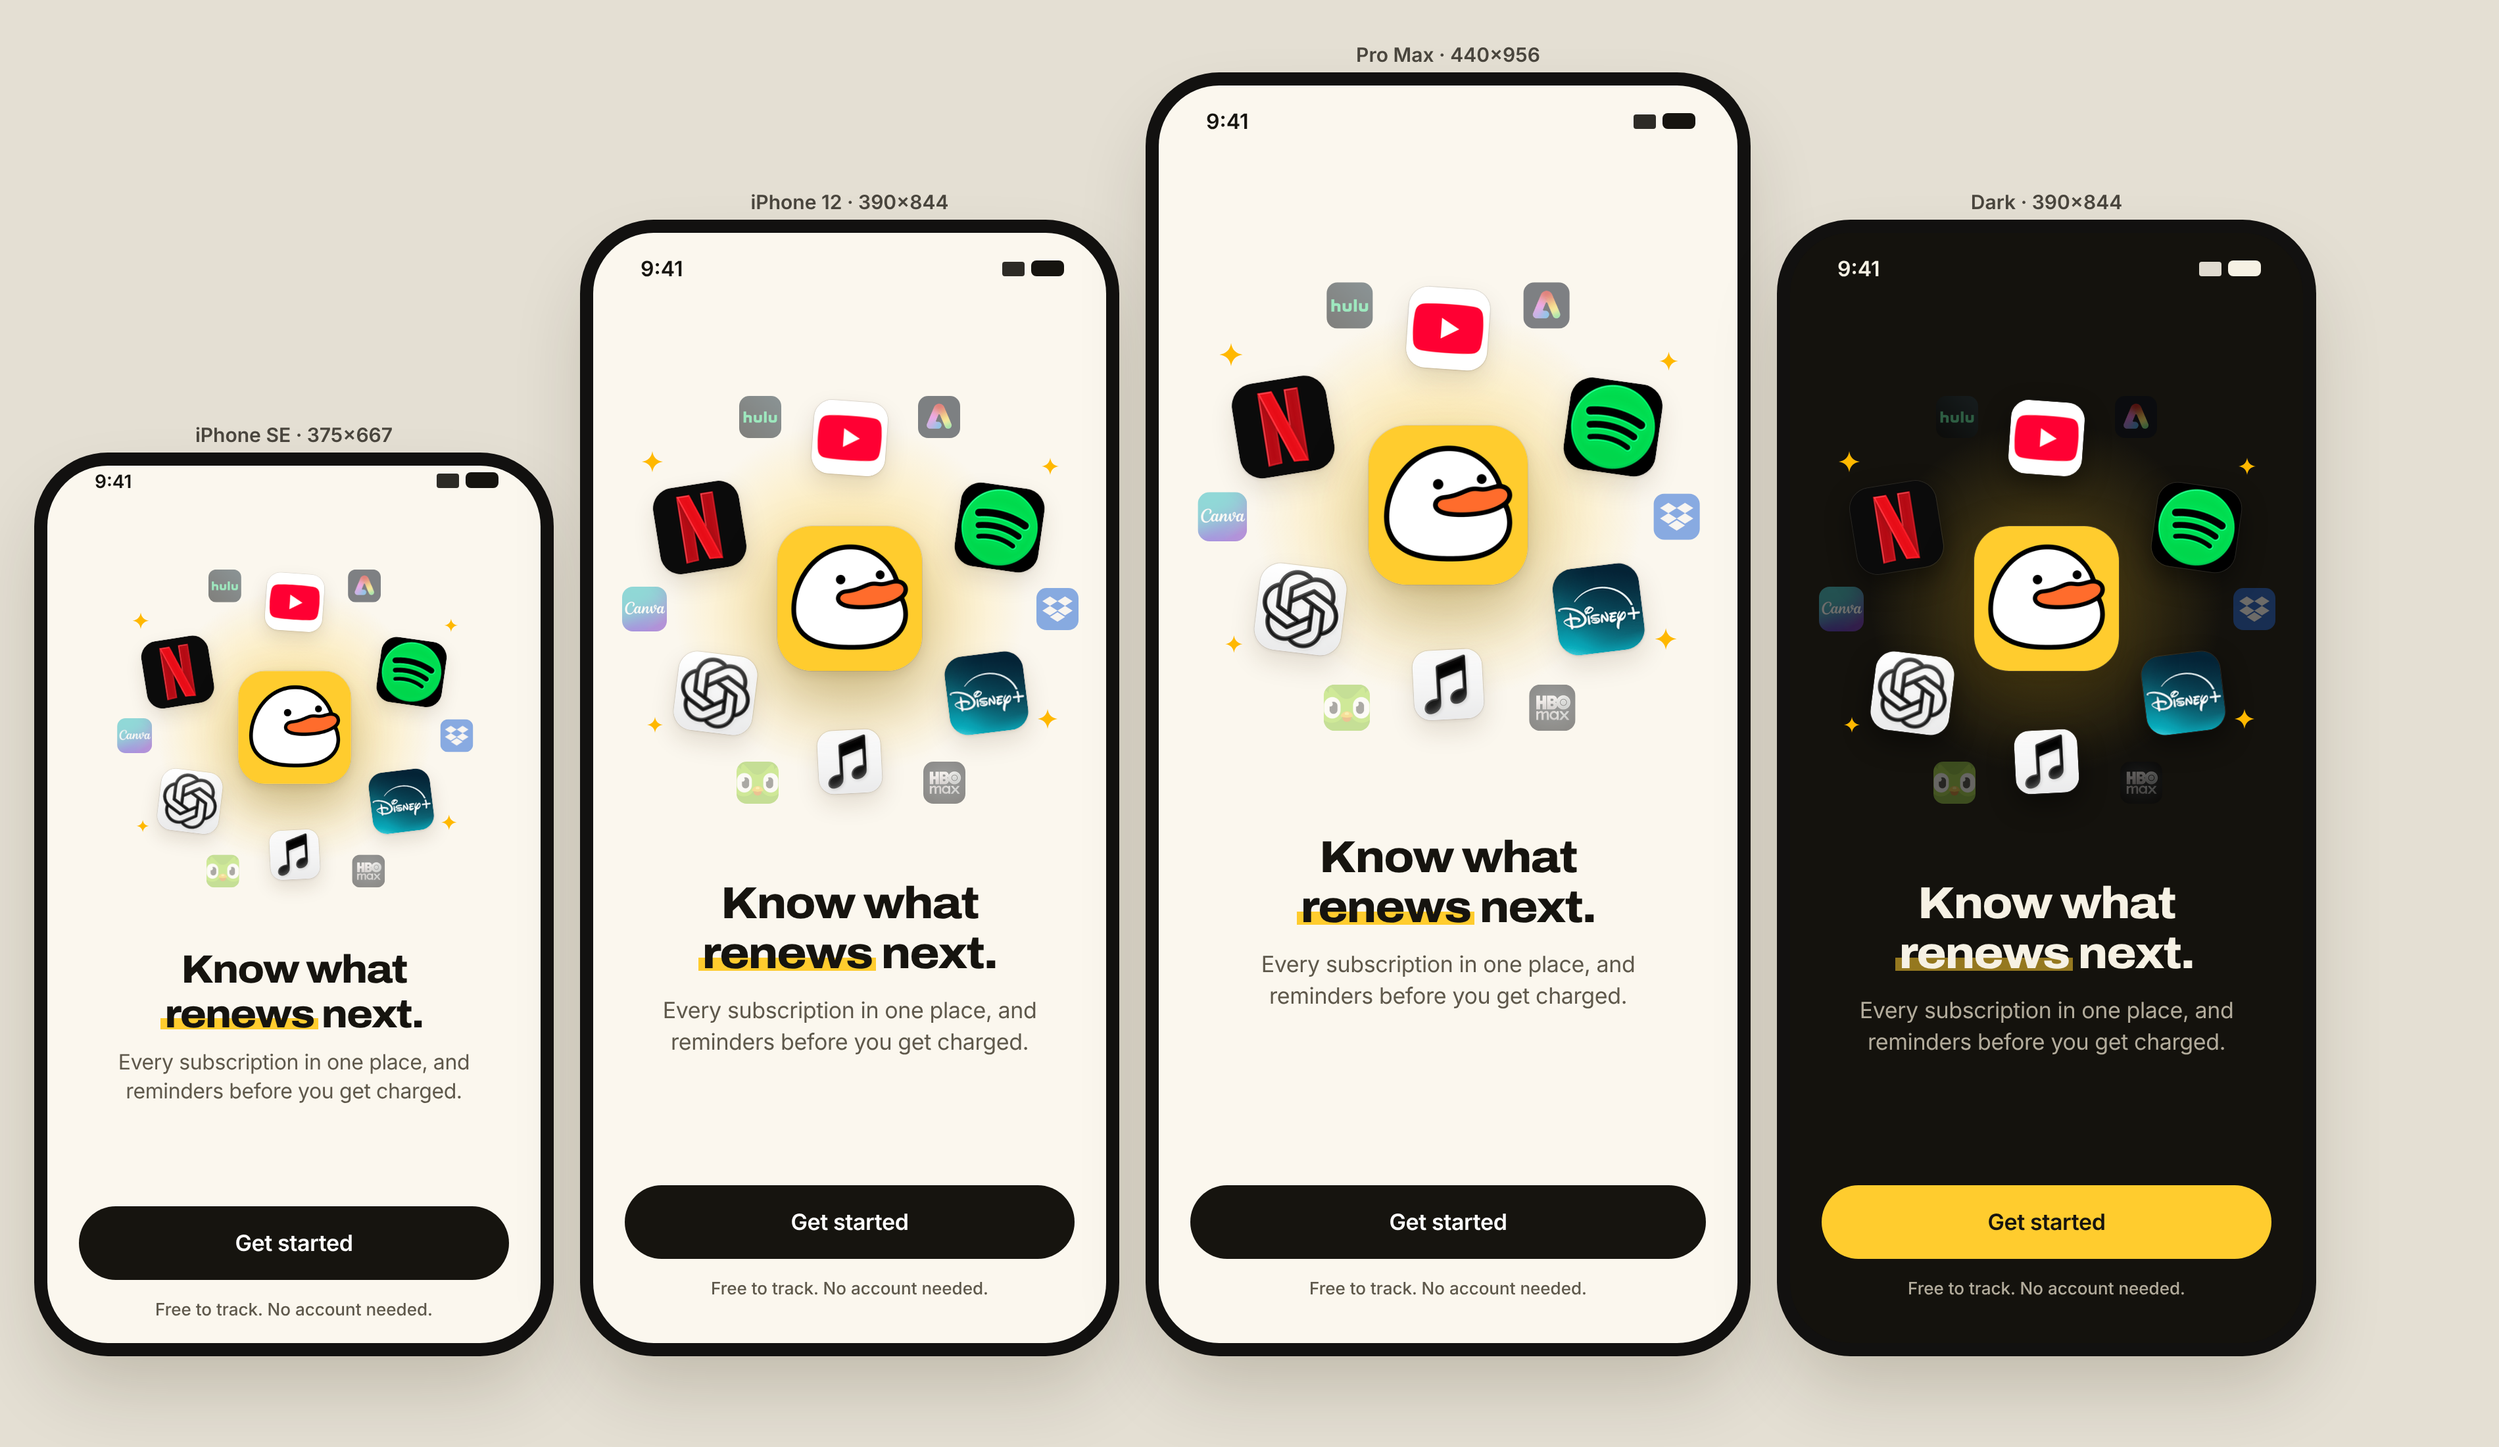
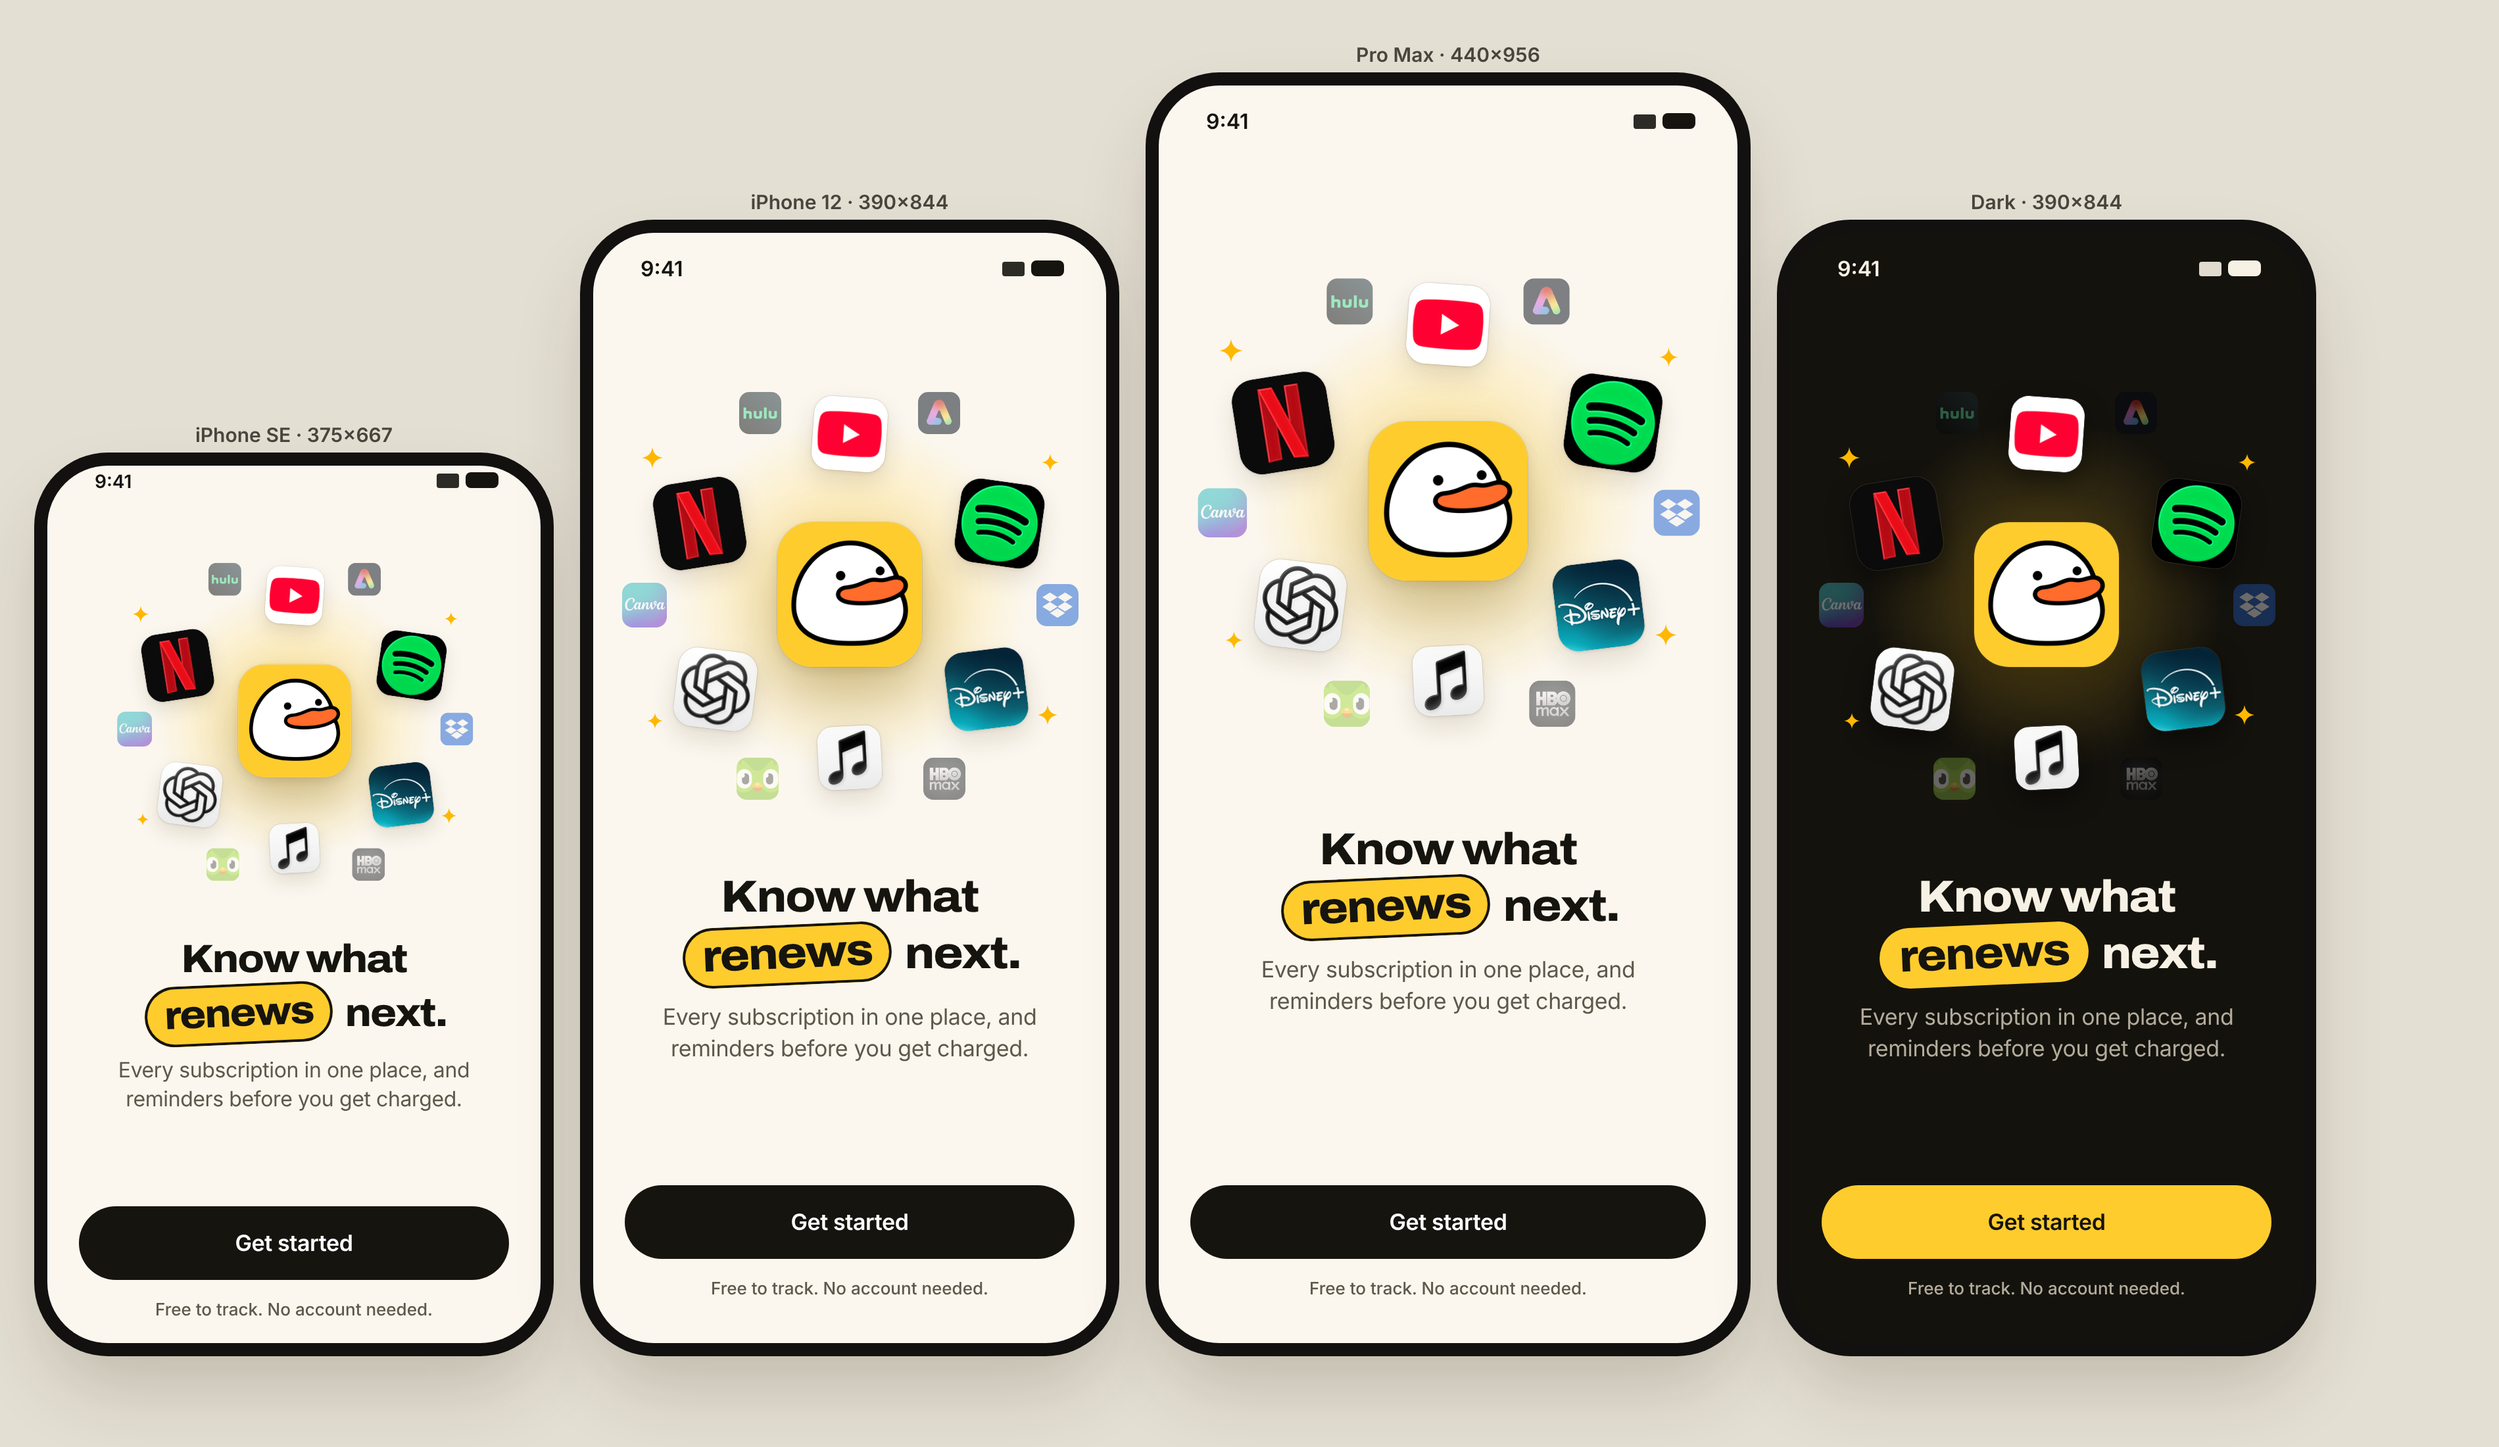
Design v27: tilted sunflower pill on 'renews' (2+3 combined)
Claude-Session: https://claude.ai/code/session_01Q8GFjWCZXwnj2nAcxjTkxh

diff --git a/design/v28/mix.html b/design/v28/mix.html
@@ -1,0 +1,89 @@
+<!doctype html>
+<html><head><meta charset="utf-8"><title>Highlight options v28</title>
+<style>
+@font-face{font-family:Archivo;src:url(../v12/fonts/archivo-wdth.woff2) format('woff2');font-weight:100 900;font-stretch:62% 125%}
+@font-face{font-family:Inter;src:url(../v12/fonts/Inter_400Regular.ttf);font-weight:400}
+@font-face{font-family:Inter;src:url(../v12/fonts/Inter_500Medium.ttf);font-weight:500}
+@font-face{font-family:Inter;src:url(../v12/fonts/Inter_600SemiBold.ttf);font-weight:600}
+*{box-sizing:border-box;margin:0}
+body{background:#E4DFD3;font-family:Inter,sans-serif;-webkit-font-smoothing:antialiased;padding:32px 36px}
+.row{display:flex;gap:40px;align-items:flex-end}
+.cell{display:flex;flex-direction:column;align-items:center;gap:14px}
+.cap{font:700 15px Inter;color:#4A463E;text-align:center}
+.phone{--bg:#FBF7EE;--ink:#16140F;--fg2:#5E584B;--glow:#FFE18A;--btn:#16140F;--btnfg:#fff;--hl:#FFCC2E;--ring:rgba(22,20,15,.10);
+  border-radius:46px;overflow:hidden;box-shadow:0 0 0 10px #121110,0 30px 60px rgba(40,30,0,.2);background:var(--bg);color:var(--ink);display:flex;flex-direction:column;position:relative}
+.phone.dark{--bg:#14120D;--ink:#F6F1E4;--fg2:#B3AC9C;--glow:rgba(255,204,46,.30);--btn:#FFCC2E;--btnfg:#16140F;--hl:rgba(255,204,46,.55);--ring:rgba(255,255,255,.10)}
+.sb{flex:none;display:flex;justify-content:space-between;align-items:center;padding:4px 32px 0 36px;font:600 16px Inter;position:relative;z-index:5}
+.sb i{display:flex;gap:5px;align-items:center}.sb i b{display:block;background:var(--ink);border-radius:2px}
+.stage{position:relative;width:342px;height:320px;flex:none;align-self:center;transform-origin:center}
+.t{position:absolute;border-radius:24%;overflow:hidden;box-shadow:0 0 0 .5px var(--ring),0 8px 18px rgba(58,42,0,.13),0 1px 3px rgba(58,42,0,.08)}
+.dark .t{box-shadow:0 0 0 .5px var(--ring),0 8px 20px rgba(0,0,0,.45)}
+.t img{display:block;width:100%;height:100%}
+.t.far{box-shadow:none;filter:saturate(.75)}
+.dark .t.far{filter:saturate(.6) brightness(.8)}
+.copy{text-align:center;padding:0 28px;flex:none}
+.h1{font:800 34px/38px Archivo;font-stretch:108%;letter-spacing:-1px}
+.hl{background:linear-gradient(transparent 60%,var(--hl) 56%,var(--hl) 86%,transparent 86%);padding:0 3px;margin:0 -3px}
+.sub{font:400 17px/24px Inter;color:var(--fg2);margin-top:12px;letter-spacing:-.2px}
+.cta{margin:0 24px;height:56px;border-radius:28px;background:var(--btn);color:var(--btnfg);display:flex;align-items:center;justify-content:center;font:600 17px Inter;letter-spacing:-.2px;flex:none}
+.fine{text-align:center;font:500 13px Inter;color:var(--fg2);flex:none}
+.grow{flex:1}
+.mix{display:inline-block;background:#FFCC2E;color:#16140F;border-radius:999px;padding:0 15px 2px;margin:2px 3px 0;line-height:44px;transform:rotate(-2.5deg)}
+.mix.b{box-shadow:inset 0 0 0 2px #16140F}
+.mix.c{box-shadow:inset 0 0 0 2px #16140F,2px 2px 0 #16140F}
+.dark .mix.b{box-shadow:none}
+.dark .mix.c{box-shadow:2px 2px 0 rgba(255,255,255,.85)}
+
+.pill{display:inline-block;background:var(--hl);border-radius:999px;padding:0 14px 2px;margin:0 2px;line-height:44px}
+.dark .pill{background:#FFCC2E;color:#16140F}
+.tag{display:inline-block;background:#FFCC2E;color:#16140F;border:2.5px solid #16140F;border-radius:10px;padding:0 10px 2px;transform:rotate(-3deg);line-height:42px;margin:4px 2px 0;box-shadow:3px 3px 0 #16140F}
+.dark .tag{border-color:#F6F1E4;box-shadow:3px 3px 0 #F6F1E4}
+.orange{color:#E4570F}
+.dark .orange{color:#FF8A3D}
+.circ{position:relative;display:inline-block}
+.circ svg{position:absolute;left:-14px;top:-8px;width:calc(100% + 28px);height:calc(100% + 16px);overflow:visible}
+.mute{color:#A39C8A}
+.dark .mute{color:#6F695C}
+.under{position:relative;display:inline-block}
+.under svg{position:absolute;left:-2px;bottom:-9px;width:calc(100% + 4px);height:14px}
+
+</style></head><body>
+<div class="row" id="row"></div>
+<script>
+const L=n=>`../v26/logos/${n}.png`;
+const C=171,CY=160;
+function stage(){
+  // inner fan (from C): six logos, slight tilt
+  const inner=[['youtube-premium',0,-122,4,56],['netflix',-114,-54,-9,66],['spotify',114,-54,8,64],['chatgpt-plus',-102,72,7,60],['disney-plus',104,72,-7,60],['apple-music',0,124,-3,48]];
+  // outer ring (from A): faded, smaller, fills the corners
+  const outer=[['hulu',-68,-138,32,.5],['adobe-cc',68,-138,32,.5],['canva-pro',-156,8,34,.5],['dropbox',158,8,32,.5],['duolingo',-70,140,32,.45],['max',72,140,32,.45]];
+  let h=`<div style="position:absolute;left:${C-140}px;top:${CY-140}px;width:280px;height:280px;border-radius:50%;background:radial-gradient(circle,var(--glow) 0%,transparent 68%)"></div>`;
+  h+=outer.map(([n,x,y,s,o])=>`<span class="t far" style="width:${s}px;height:${s}px;left:${C+x-s/2}px;top:${CY+y-s/2}px;opacity:${o}"><img src="${L(n)}"></span>`).join('');
+  h+=inner.map(([n,x,y,r,s])=>`<span class="t" style="width:${s}px;height:${s}px;left:${C+x-s/2}px;top:${CY+y-s/2}px;transform:rotate(${r}deg)"><img src="${L(n)}"></span>`).join('');
+  const sp=(x,y,s,o=1)=>`<svg style="position:absolute;left:${x-s/2}px;top:${y-s/2}px;opacity:${o}" width="${s}" height="${s}" viewBox="0 0 24 24"><path d="M12 0c1 7 5 11 12 12-7 1-11 5-12 12-1-7-5-11-12-12 7-1 11-5 12-12z" fill="#FFB800"/></svg>`;
+  h+=sp(C-150,CY-104,16)+sp(C+152,CY-100,13)+sp(C+150,CY+92,15)+sp(C-148,CY+96,12);
+  h+=`<span class="t" style="width:110px;height:110px;left:${C-55}px;top:${CY-55}px;box-shadow:0 0 0 .5px var(--ring),0 22px 46px rgba(58,42,0,.26),0 3px 8px rgba(58,42,0,.1)"><img src="../v26/app-icon.png"></span>`;
+  return h;
+}
+function phone(w,h,dark,head){
+  const small=h<700, sb=small?20:50, scale=small?.78:(w>420?1.1:1);
+  const bottom=small?18:34;
+  return `<div class="phone${dark?' dark':''}" style="width:${w}px;height:${h}px">
+   <div class="sb" style="height:${sb}px;${small?'font-size:14px;padding-top:2px':''}"><span>9:41</span><i><b style="width:17px;height:11px;opacity:.9"></b><b style="width:25px;height:12px;border-radius:4px"></b></i></div>
+   <div class="grow" style="flex:.7"></div>
+   <div class="stage" style="transform:scale(${scale});margin:${(scale-1)*160}px 0">${stage()}</div>
+   <div class="grow" style="flex:.55"></div>
+   <div class="copy"><div class="h1" style="${small?'font-size:30px;line-height:34px':''}">${head}</div>
+     <div class="sub" style="${small?'font-size:16px;line-height:22px;margin-top:8px':''}">Every subscription in one place, and<br>reminders before you get charged.</div></div>
+   <div class="grow" style="flex:1"></div>
+   <div class="cta">Get started</div>
+   <div class="fine" style="margin:14px 0 ${bottom}px">Free to track. No account needed.</div></div>`;
+}
+const V=[
+ ['2+3 · A: tilted pill','Know what<br><span class="mix">renews</span> next.'],
+ ['2+3 · B: tilted pill, ink outline','Know what<br><span class="mix b">renews</span> next.'],
+ ['2+3 · C: outline + small shadow','Know what<br><span class="mix c">renews</span> next.'],
+];
+const dark=new URLSearchParams(location.search).has('dark');
+document.getElementById('row').innerHTML='<div style="display:grid;grid-template-columns:repeat(3,auto);gap:36px 40px">'+V.map(([t,h])=>`<div class="cell"><div class="cap">${t}</div>${phone(390,844,dark,h)}</div>`).join('')+'</div>';
+</script></body></html>

diff --git a/design/v27/welcome.html b/design/v27/welcome.html
@@ -28,6 +28,8 @@ body{background:#E4DFD3;font-family:Inter,sans-serif;-webkit-font-smoothing:anti
 .cta{margin:0 24px;height:56px;border-radius:28px;background:var(--btn);color:var(--btnfg);display:flex;align-items:center;justify-content:center;font:600 17px Inter;letter-spacing:-.2px;flex:none}
 .fine{text-align:center;font:500 13px Inter;color:var(--fg2);flex:none}
 .grow{flex:1}
+.mix{display:inline-block;background:#FFCC2E;color:#16140F;border-radius:999px;padding:0 15px 2px;margin:2px 3px 0;line-height:44px;transform:rotate(-2.5deg);box-shadow:inset 0 0 0 2px #16140F}
+.dark .mix{box-shadow:none}
 </style></head><body>
 <div class="row" id="row"></div>
 <script>
@@ -54,7 +56,7 @@ function phone(w,h,dark){
    <div class="grow" style="flex:.7"></div>
    <div class="stage" style="transform:scale(${scale});margin:${(scale-1)*160}px 0">${stage()}</div>
    <div class="grow" style="flex:.55"></div>
-   <div class="copy"><div class="h1" style="${small?'font-size:30px;line-height:34px':''}">Know what<br><span class="hl">renews</span> next.</div>
+   <div class="copy"><div class="h1" style="${small?'font-size:30px;line-height:34px':''}">Know what<br><span class="mix">renews</span> next.</div>
      <div class="sub" style="${small?'font-size:16px;line-height:22px;margin-top:8px':''}">Every subscription in one place, and<br>reminders before you get charged.</div></div>
    <div class="grow" style="flex:1"></div>
    <div class="cta">Get started</div>
